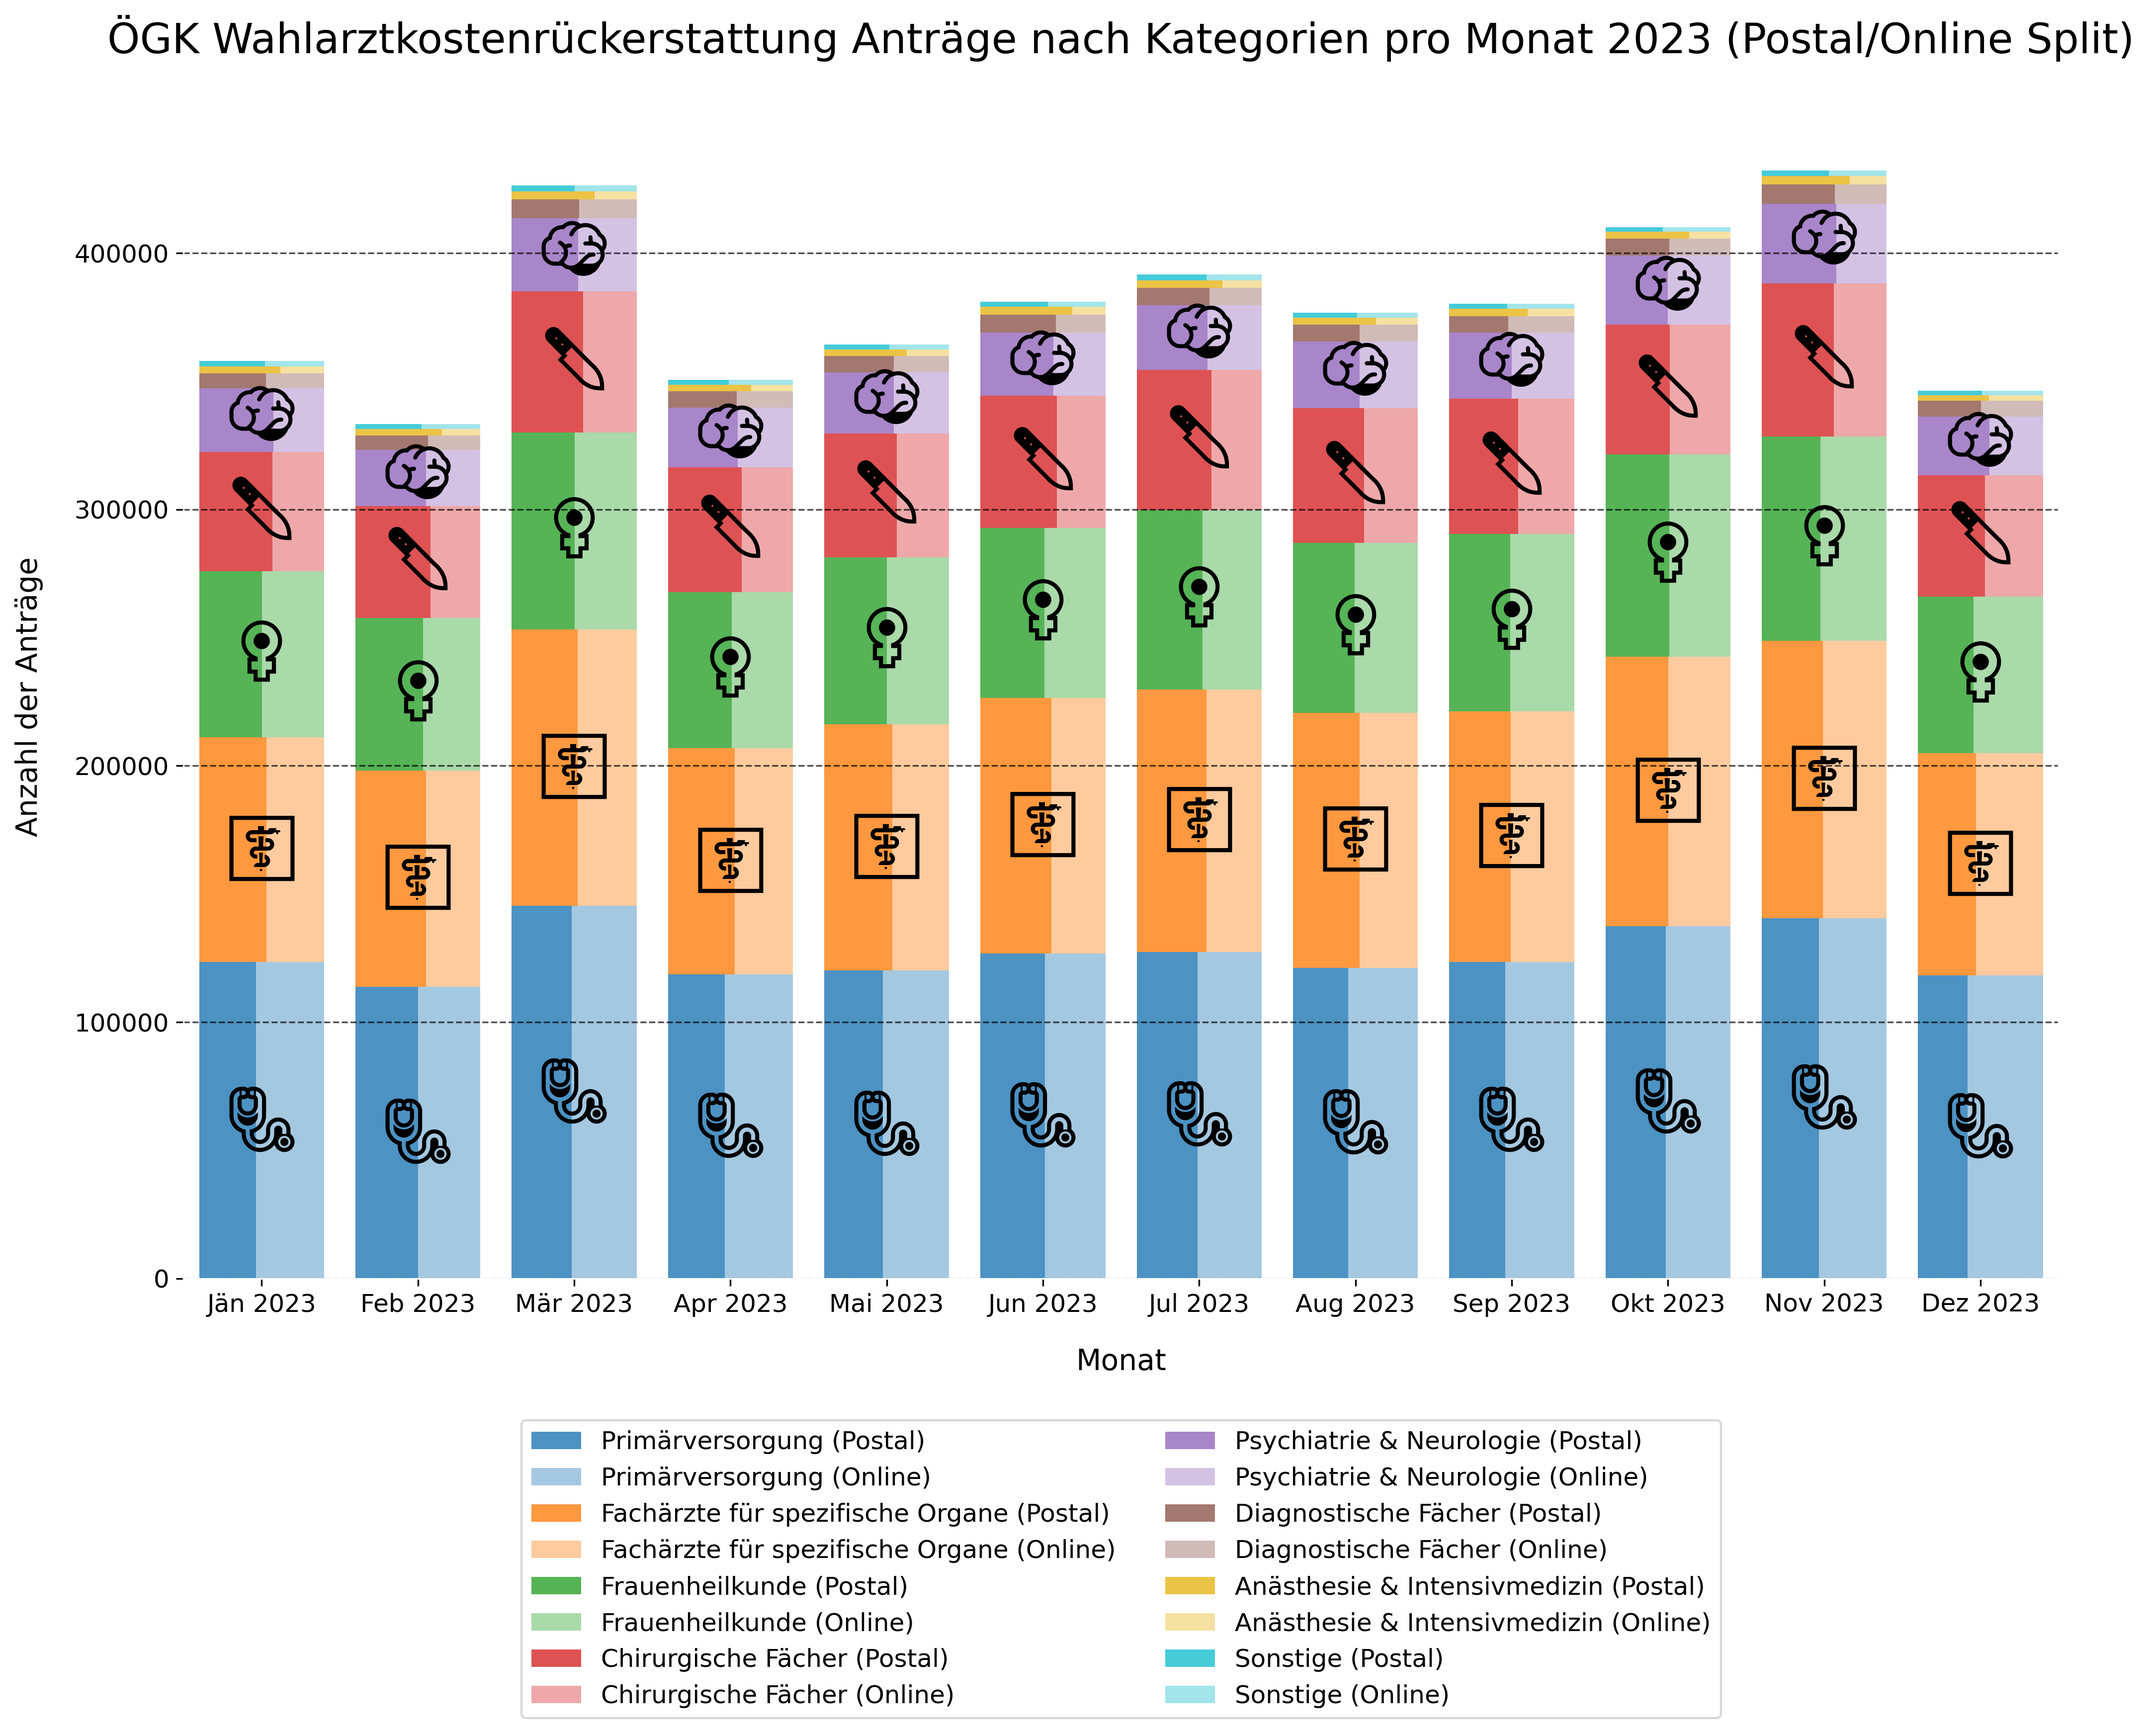
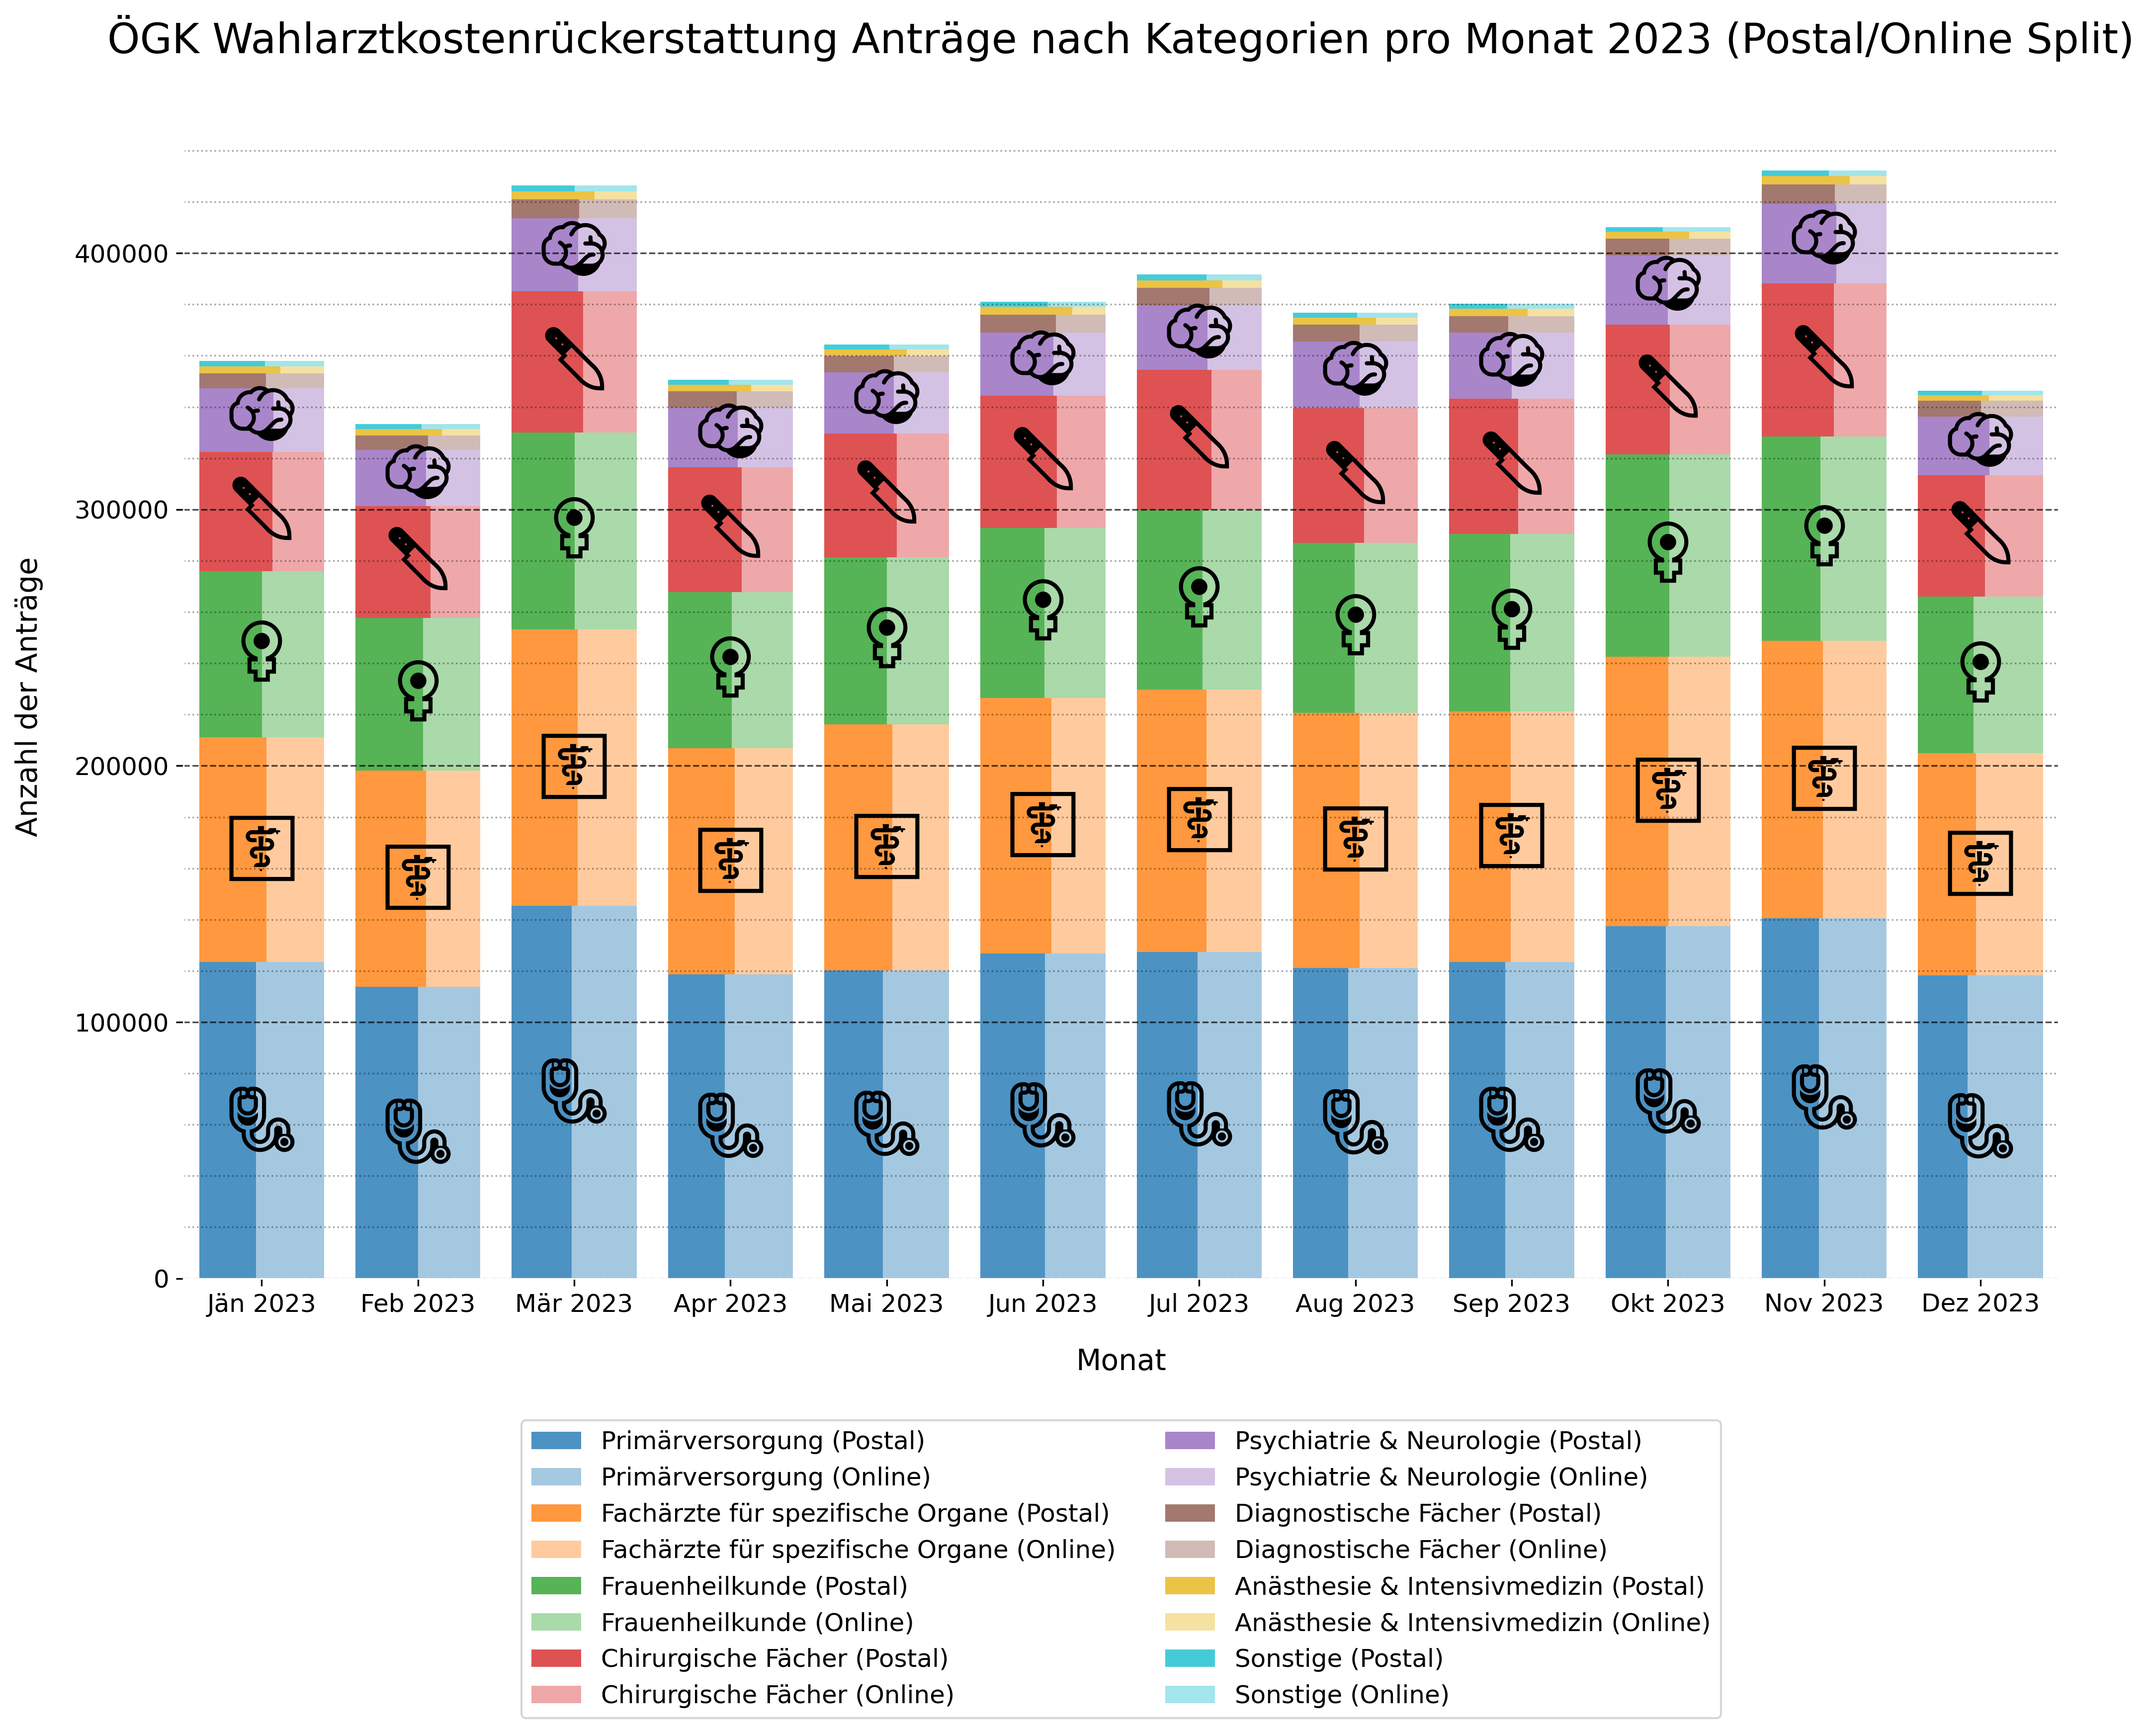
improved the category antraege again a small bit and delted wrong files

diff --git a/visualize/plot_oegk_antraege.py b/visualize/plot_oegk_antraege.py
@@ -817,6 +817,21 @@ def create_categorized_plot(df, dark_mode=True, show_icons=True):
     
     # Setup axes with increased font size
     ax.tick_params(axis='both', which='major', labelsize=12)  # Increased from default
+    ax.tick_params(axis='both', which='minor', labelsize=8)  # Add minor tick labels
+    
+    # Enable only horizontal grid lines
+    ax.grid(True, axis='y', which='major', linestyle='--', alpha=grid_alpha, color=text_color)
+    ax.grid(True, axis='y', which='minor', linestyle=':', alpha=grid_alpha*0.5, color=text_color)
+    
+    # Add minor ticks only for y-axis and set their opacity
+    ax.minorticks_on()
+    ax.tick_params(axis='x', which='minor', bottom=False)  # Disable minor ticks on x-axis
+    
+    # Set minor tick label opacity
+    for label in ax.get_yticklabels(minor=True):
+        label.set_alpha(0.5)
+    
+    # Setup axes
     setup_plot_axes(ax, dates, text_color, grid_alpha)
     
     # Set axis limits
